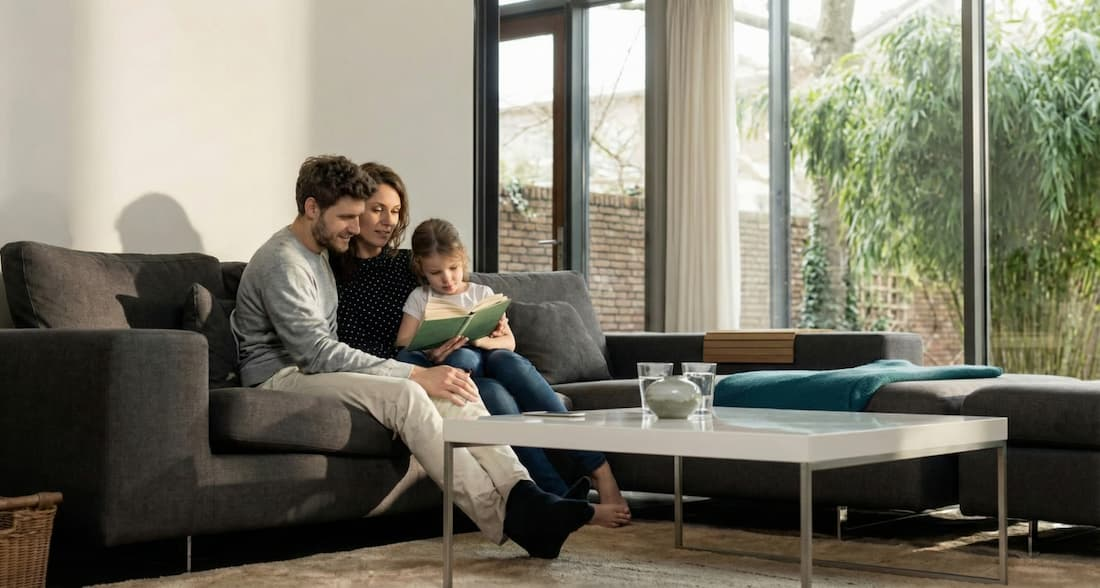
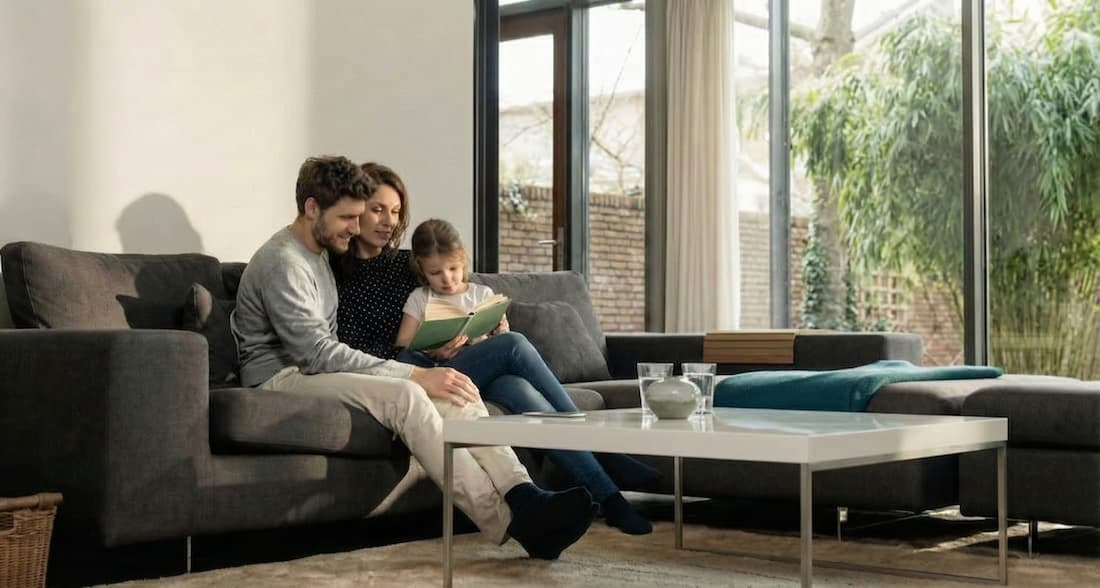
S

diff --git a/next-app/src/app/Merritt/HomeClient.tsx b/next-app/src/app/Merritt/HomeClient.tsx
@@ -50,6 +50,10 @@ export default function HomeClient() {
   const [gardenFlatImage, setGardenFlatImage] = useState(0); // 0: exterior, 1: bedroom, 2: kitchen
   const [skyTownhomeImage, setSkyTownhomeImage] = useState(0); // 0: exterior, 1: bedroom, 2: kitchen
 
+  // Touch timing for double-tap detection
+  const gardenFlatLastTap = useRef(0);
+  const skyTownhomeLastTap = useRef(0);
+
   // Form state
   const [formData, setFormData] = useState({
     firstName: '',
@@ -421,7 +425,7 @@ export default function HomeClient() {
 
             {/* Keith's Title */}
             <div
-              className="absolute z-30 -bottom-8 md:-bottom-16 lg:-bottom-24 left-4 md:left-8 lg:left-12 xl:-left-6 w-[40%] md:w-[40%] lg:w-[45%] max-w-[200px] md:max-w-none flex justify-center"
+              className="absolute z-30 -bottom-4 md:-bottom-16 lg:-bottom-24 left-4 md:left-8 lg:left-12 xl:-left-6 w-[40%] md:w-[40%] lg:w-[45%] max-w-[200px] md:max-w-none flex justify-center"
             >
               <p className="text-white font-black text-[9px] md:text-xs lg:text-sm tracking-wider drop-shadow-[0_2px_4px_rgba(0,0,0,0.8)] drop-shadow-[0_0px_8px_rgba(0,0,0,0.6)] text-center px-1 leading-tight">
                 Co-Founder Keith Wiebe Gordon<br/>(20 years of development experience)
@@ -472,6 +476,21 @@ export default function HomeClient() {
               <div
                 className="relative h-80 overflow-hidden group cursor-pointer md:cursor-default"
                 onClick={() => setGardenFlatImage((prev) => (prev + 1) % 3)}
+                onTouchEnd={(e) => {
+                  e.preventDefault();
+                  const currentTime = Date.now();
+                  const timeDiff = currentTime - gardenFlatLastTap.current;
+
+                  if (timeDiff < 300 && timeDiff > 0) {
+                    // Double tap detected - reset to first image
+                    setGardenFlatImage(0);
+                  } else {
+                    // Single tap - cycle to next image
+                    setGardenFlatImage((prev) => (prev + 1) % 3);
+                  }
+
+                  gardenFlatLastTap.current = currentTime;
+                }}
               >
                 {/* Exterior Garden View - Default */}
                 <img
@@ -506,7 +525,7 @@ export default function HomeClient() {
                 {/* Mobile tap indicator */}
                 <div className="absolute bottom-16 right-4 md:hidden">
                   <div className="bg-black/50 text-white text-xs px-2 py-1 rounded-full backdrop-blur-sm">
-                    Tap to explore
+Tap to cycle • Double-tap to reset
                   </div>
                 </div>
                   <div className="absolute bottom-4 left-4 right-4">
@@ -545,6 +564,21 @@ export default function HomeClient() {
               <div
                 className="relative h-80 overflow-hidden group cursor-pointer md:cursor-default"
                 onClick={() => setSkyTownhomeImage((prev) => (prev + 1) % 3)}
+                onTouchEnd={(e) => {
+                  e.preventDefault();
+                  const currentTime = Date.now();
+                  const timeDiff = currentTime - skyTownhomeLastTap.current;
+
+                  if (timeDiff < 300 && timeDiff > 0) {
+                    // Double tap detected - reset to first image
+                    setSkyTownhomeImage(0);
+                  } else {
+                    // Single tap - cycle to next image
+                    setSkyTownhomeImage((prev) => (prev + 1) % 3);
+                  }
+
+                  skyTownhomeLastTap.current = currentTime;
+                }}
               >
                 {/* Exterior View - Default */}
                 <img
@@ -579,7 +613,7 @@ export default function HomeClient() {
                 {/* Mobile tap indicator */}
                 <div className="absolute bottom-16 right-4 md:hidden">
                   <div className="bg-black/50 text-white text-xs px-2 py-1 rounded-full backdrop-blur-sm">
-                    Tap to explore
+Tap to cycle • Double-tap to reset
                   </div>
                 </div>
                   <div className="absolute bottom-4 left-4 right-4">
